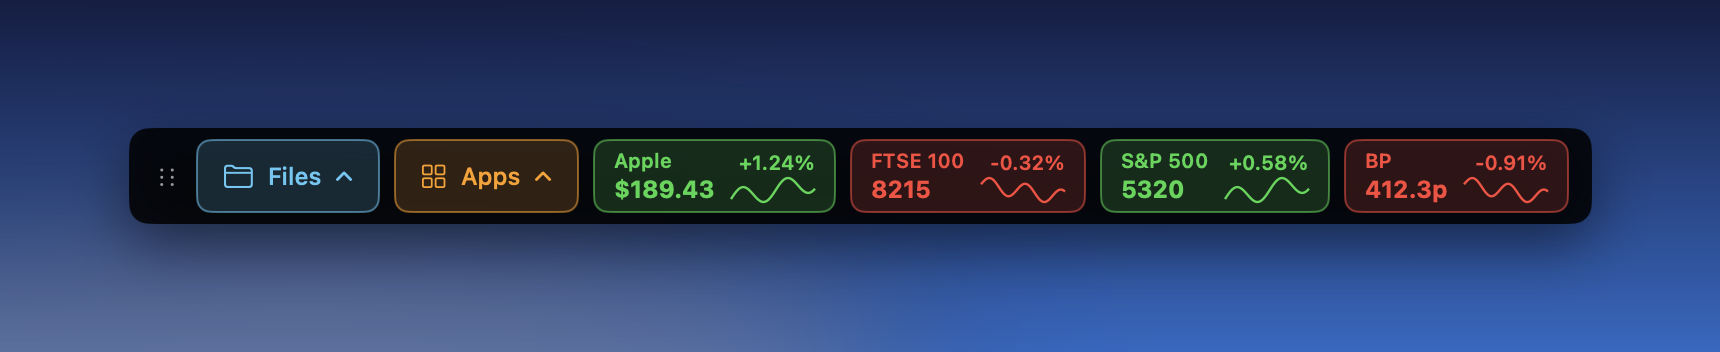
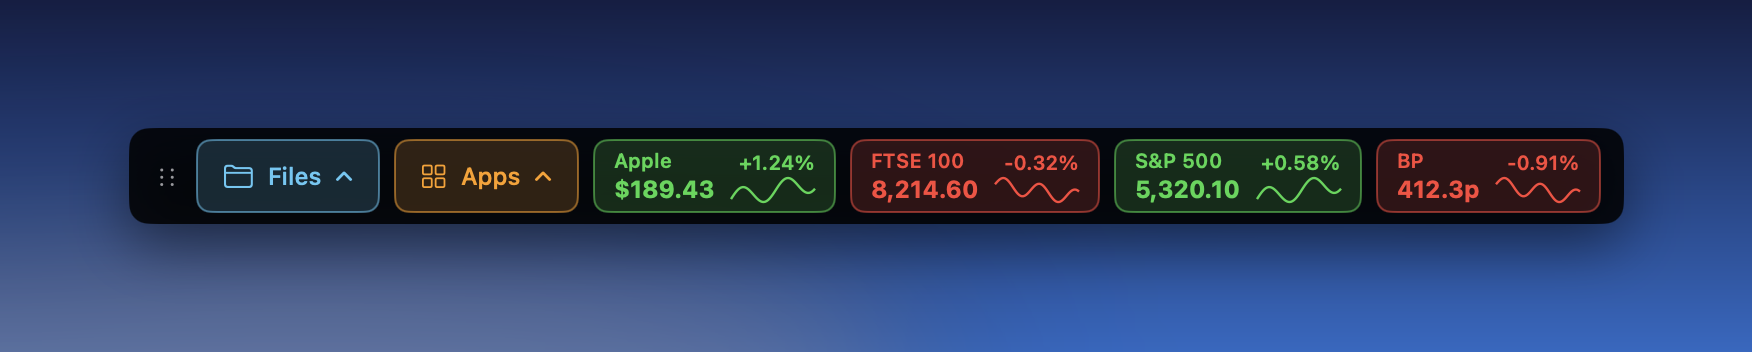
BarDeck page images: final 1.2 captures (still not pushed)

Changed region(s): [[0.0924, 0.375, 0.9244, 0.625]]

diff --git a/bardeck/index.html b/bardeck/index.html
@@ -121,7 +121,7 @@
 </figure>
 
 <figure class="shot wide">
-  <img src="img/12-stocks.png" alt="Four stock buttons with prices, daily change and a small chart: Apple, FTSE 100, S&amp;P 500 and BP" loading="lazy" width="1720" height="352">
+  <img src="img/12-stocks.png" alt="Four stock buttons with prices, daily change and a small chart: Apple, FTSE 100, S&amp;P 500 and BP" loading="lazy" width="1752" height="352">
   <figcaption>Stock buttons show a delayed price, the day&#8217;s change and a small chart for any share or index.</figcaption>
 </figure>
 
